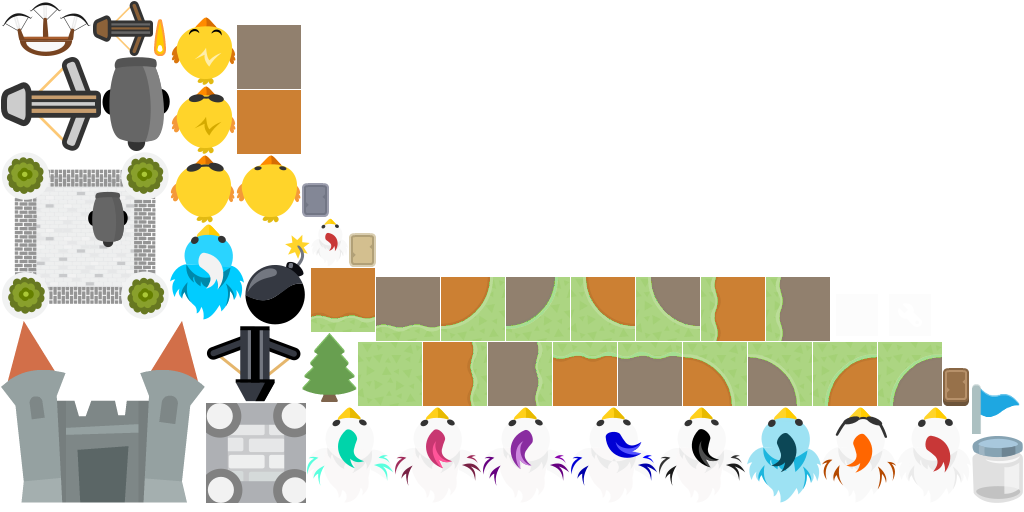
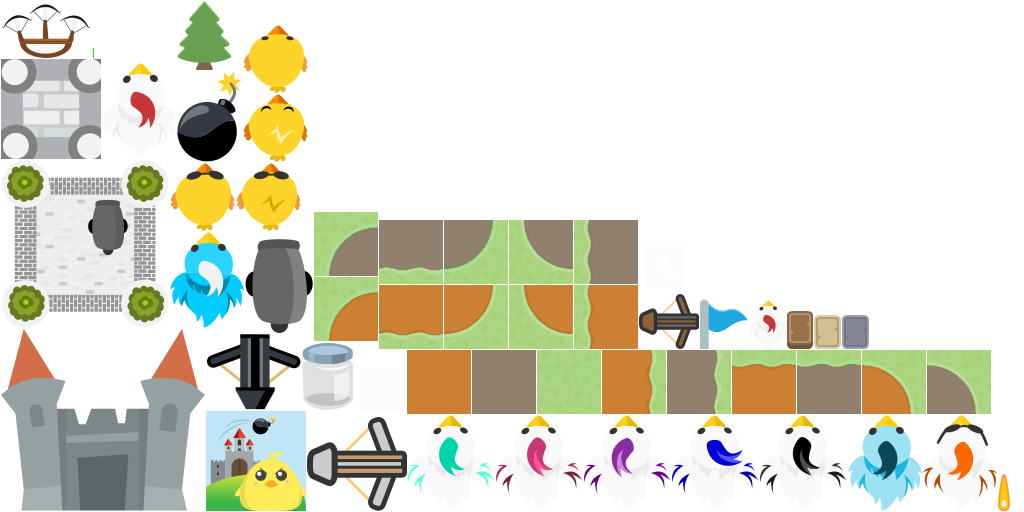
Added day and night light changes. Fixed health bars. Added background.

diff --git a/core/src/main/kotlin/com/ownedoutcomes/view/render/Renderer.kt b/core/src/main/kotlin/com/ownedoutcomes/view/render/Renderer.kt
@@ -1,6 +1,5 @@
 package com.ownedoutcomes.view.render
 
-import com.badlogic.gdx.graphics.Color
 import com.badlogic.gdx.graphics.Pixmap
 import com.badlogic.gdx.graphics.Texture
 import com.badlogic.gdx.graphics.g2d.Batch
@@ -43,6 +42,7 @@ class GameRenderer(val gameController: GameController, val batch: Batch, skin: S
   )
   private val bulletSprite = skin.atlas.createSprite("bullet")
 
+  private val healthSprite = skin.atlas.createSprite("health")
 
   val debugRenderer = Box2DDebugRenderer()
 
@@ -85,7 +85,6 @@ class GameRenderer(val gameController: GameController, val batch: Batch, skin: S
     val bulletSprite = createSprite(sprite, entity)
     bulletSprite.rotation = MathUtils.radiansToDegrees * entity.angle
     bulletSprite.draw(batch)
-
     return bulletSprite
   }
 
@@ -107,15 +106,18 @@ class GameRenderer(val gameController: GameController, val batch: Batch, skin: S
 
   private fun renderCastle() {
     val castle = gameController.castle
-    val castleSprite = processSprite(castleSprite, castle)
+    processSprite(castleSprite, castle)
+    renderHealthSprite(castle)
+  }
 
-    val pixmap = Pixmap(0, 10, Pixmap.Format.RGBA8888)
-    pixmap.setColor(Color.RED)
-    pixmap.fill()
-    val drawable = TextureRegion(Texture(pixmap))
-    batch.color = Color.RED
-    batch.draw(drawable, castleSprite.x, castleSprite.y + 2 * castle.size, castle.size * 2 * (castle.life / castle.maxLife), 10f)
-    pixmap.dispose()
+  private fun renderHealthSprite(castle: AbstractEntity) {
+    val healthSprite = Sprite(healthSprite)
+    val spriteSize = castle.size * 2 * (castle.life / castle.maxLife)
+    healthSprite.x = castle.body.position.x - castle.size
+    healthSprite.y = castle.body.position.y + castle.size
+    healthSprite.setSize(spriteSize, 10f)
+    healthSprite.setOriginCenter()
+    healthSprite.draw(batch)
   }
 
   private fun renderEnemies(playerPosition: Vector2) {
@@ -141,14 +143,7 @@ class GameRenderer(val gameController: GameController, val batch: Batch, skin: S
     towerSprite.setSize(spriteSize, spriteSize)
     towerSprite.setOriginCenter()
     towerSprite.draw(batch)
-
-    val pixmap = Pixmap(0, 10, Pixmap.Format.RGBA8888)
-    pixmap.setColor(Color.RED)
-    pixmap.fill()
-    val drawable = TextureRegion(Texture(pixmap))
-    batch.color = Color.RED
-    batch.draw(drawable, towerSprite.x, towerSprite.y + 2 * entity.size, spriteSize * (entity.life / entity.maxLife), 10f)
-    pixmap.dispose()
+    renderHealthSprite(entity)
   }
 
   private fun renderFastTowers() {
@@ -171,12 +166,6 @@ class GameRenderer(val gameController: GameController, val batch: Batch, skin: S
 
     towerSprite.draw(batch)
 
-    val pixmap = Pixmap(0, 10, Pixmap.Format.RGBA8888)
-    pixmap.setColor(Color.RED)
-    pixmap.fill()
-    val drawable = TextureRegion(Texture(pixmap))
-    batch.color = Color.RED
-    batch.draw(drawable, towerSprite.x, towerSprite.y + 2 * tower.size, spriteSize * (tower.life / tower.maxLife), 10f)
-    pixmap.dispose()
+    renderHealthSprite(tower)
   }
 }

diff --git a/core/src/main/kotlin/com/ownedoutcomes/entity/PlayerEntities.kt b/core/src/main/kotlin/com/ownedoutcomes/entity/PlayerEntities.kt
@@ -15,10 +15,9 @@ import ktx.collections.GdxSet
 import ktx.collections.gdxSetOf
 import ktx.math.vec2
 
-class Castle(world: World, override var life: Float, val spawnCenter: Vector2 = vec2(0f, fieldWidth.toFloat() / 2)) : AbstractEntity(world) {
+class Castle(world: World, override var life: Float, val spawnCenter: Vector2 = vec2(0f, fieldWidth.toFloat() / 2)) : AbstractEntity(world, life) {
   override var size: Float = 75f
   override var angle = 0f
-  var maxLife = life
 
   init {
     initiate()
@@ -74,13 +73,12 @@ class TripleShotFastTower(world: World,
 
 open class FastTower(world: World,
                      override var life: Float,
-                     val spawnVector: Vector2) : AbstractEntity(world) {
+                     val spawnVector: Vector2) : AbstractEntity(world, life) {
   override var size: Float = 25f
   override var angle = 0f
   var shotDelay = 0.5f
 
   var lastShotTime = 0f
-  var maxLife = life
   var towerPower = 1f
 
   init {
@@ -148,7 +146,7 @@ class Bullet(world: World,
              override var life: Float,
              val spawnVector: Vector2,
              val destination: Vector2,
-             var power: Float = 1f) : AbstractEntity(world) {
+             var power: Float = 1f) : AbstractEntity(world, life) {
   override var size: Float = 5f
   override var angle = 0f
 
@@ -193,10 +191,9 @@ class Bullet(world: World,
   }
 }
 
-class Tower(world: World, override var life: Float, val spawnVector: Vector2) : AbstractEntity(world) {
+class Tower(world: World, override var life: Float, val spawnVector: Vector2) : AbstractEntity(world, life) {
   override var size: Float = 25f
   override var angle = 0f
-  var maxLife = life
 
   init {
     initiate()

diff --git a/core/src/main/kotlin/com/ownedoutcomes/view/GameController.kt b/core/src/main/kotlin/com/ownedoutcomes/view/GameController.kt
@@ -35,12 +35,14 @@ class GameController(val assetManager: AssetManager) : Disposable {
   val bulletsToRemove = gdxSetOf<Bullet>()
 
   val fieldRadius = 5
-  val enemiesSpawnTimeout = 2f
+  val enemiesSpawnTimeout = 10f
   var lastSpawnDelta = 0.0f
 
   var points: Int = 1000
 
   var currentWave = 0
+
+  var nightDelay: Float = 10f
 
   var timeFromLastChangeOfTimeOfTheDay: Float = 0f
   private var factor: Int = 1
@@ -120,13 +122,19 @@ class GameController(val assetManager: AssetManager) : Disposable {
       lastSpawnDelta += delta
     }
 
-    if (timeFromLastChangeOfTimeOfTheDay > 10f) {
-      factor = -1
-    } else if (timeFromLastChangeOfTimeOfTheDay < 0f) {
-      timeFromLastChangeOfTimeOfTheDay = 0f
-      factor = 1
+    if (nightDelay < 0f) {
+      if (timeFromLastChangeOfTimeOfTheDay > 10f) {
+        factor = -1
+      } else if (timeFromLastChangeOfTimeOfTheDay < 0f) {
+        timeFromLastChangeOfTimeOfTheDay = 0f
+        factor = 1
+      }
+      timeFromLastChangeOfTimeOfTheDay += delta * factor
+    } else {
+      nightDelay -= delta
     }
-    timeFromLastChangeOfTimeOfTheDay += delta * factor
+
+
 
     enemies.onEach { it.update(delta) }
     castle.update(delta)

diff --git a/core/src/main/kotlin/com/ownedoutcomes/entity/Entities.kt b/core/src/main/kotlin/com/ownedoutcomes/entity/Entities.kt
@@ -13,7 +13,7 @@ import com.ownedoutcomes.view.enemyGroup
 import ktx.box2d.body
 import ktx.math.vec2
 
-abstract class AbstractEntity(val world: World) {
+abstract class AbstractEntity(val world: World, var maxLife: Float) {
   lateinit var body: Body
   abstract var size: Float
   abstract var angle: Float
@@ -33,7 +33,7 @@ class Chicken(world: World, override var life: Float, val level: Int) : Enemy(wo
 
 abstract class Enemy(world: World,
                      override var life: Float,
-                     val destination: Vector2 = vec2(0f, fieldWidth.toFloat() / 2)) : AbstractEntity(world) {
+                     val destination: Vector2 = vec2(0f, fieldWidth.toFloat() / 2)) : AbstractEntity(world, life) {
   override var size = 20f
   override var angle = 0f
 
